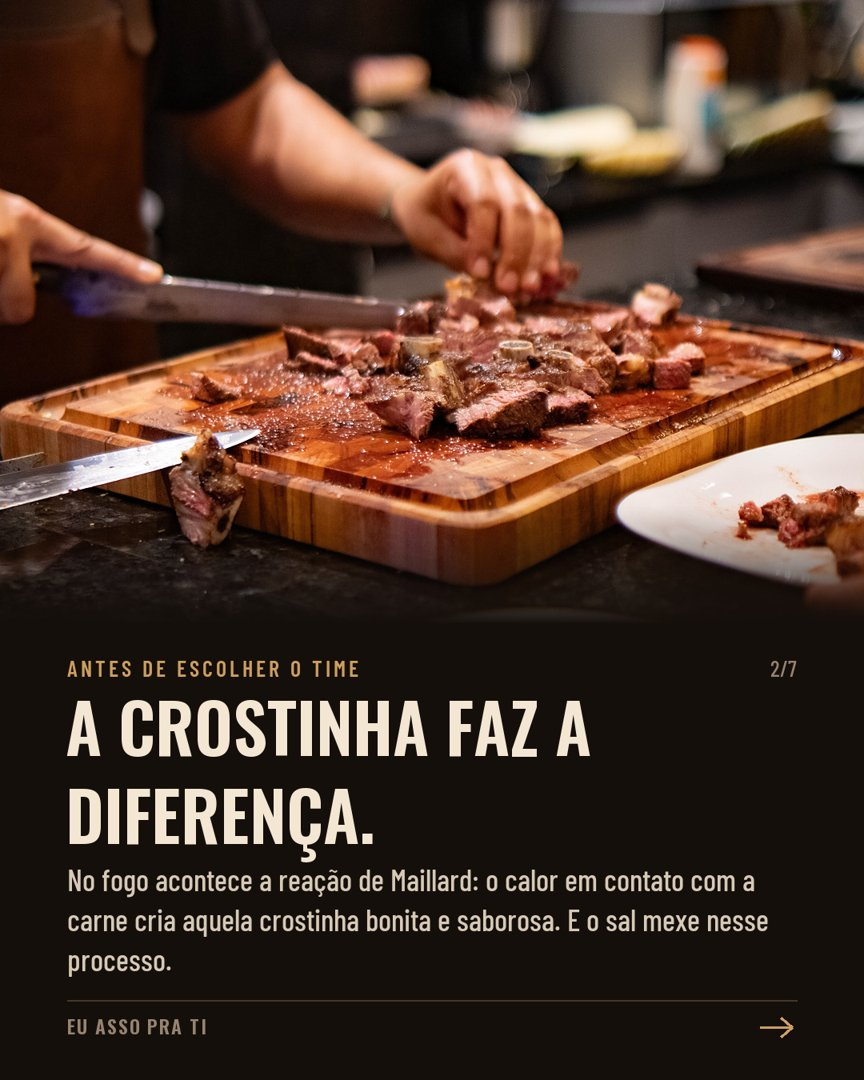
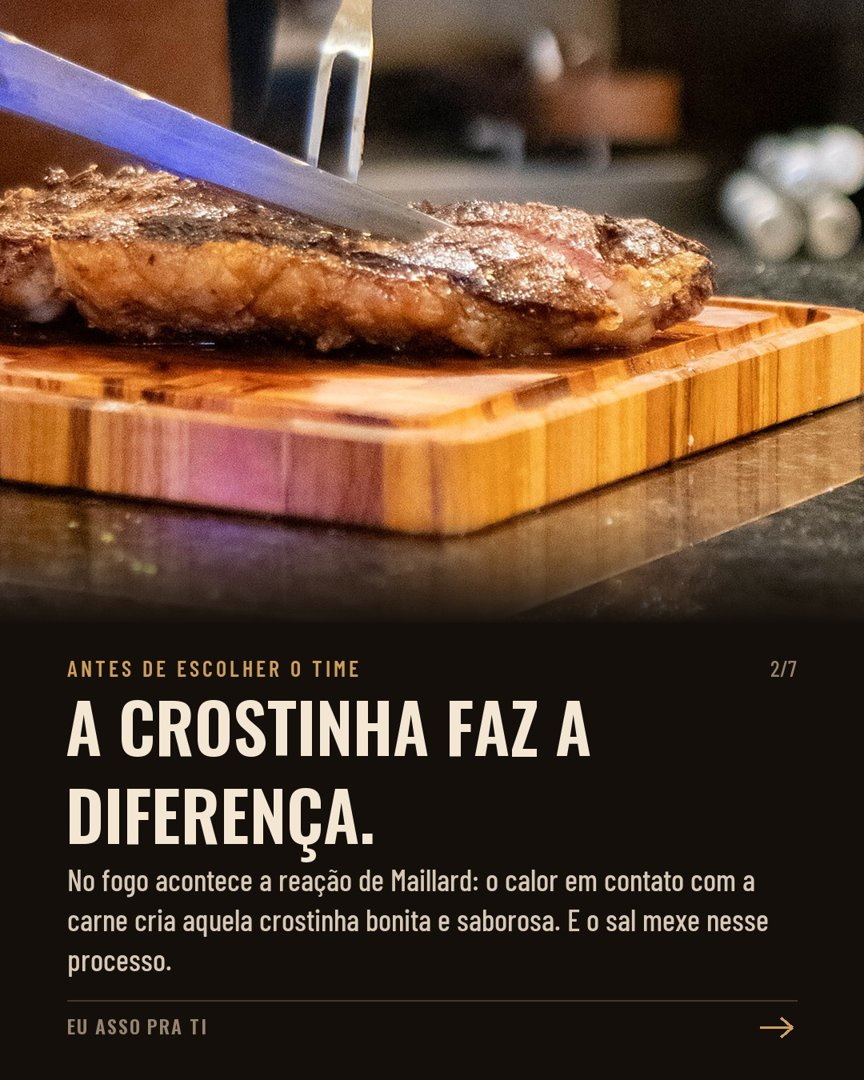
Post 07: crostinha e costelão nas fotos certas

diff --git a/semana/index.html b/semana/index.html
@@ -11,7 +11,7 @@
 --display:"Oswald","Arial Narrow",sans-serif;--label:"Barlow Condensed","Arial Narrow",sans-serif;--text:"Barlow",system-ui,sans-serif;color-scheme:dark}
 *{box-sizing:border-box}
 body{margin:0;background:var(--bg);color:var(--body);font:400 1.0625rem/1.6 var(--text)}
-.hero{position:relative;min-height:min(78vh,620px);display:grid;align-items:end;background:#000 url(img/p5-02.jpg?v=1792418128) center 40%/cover}
+.hero{position:relative;min-height:min(78vh,620px);display:grid;align-items:end;background:#000 url(img/p5-02.jpg?v=1792418336) center 40%/cover}
 .hero::after{content:"";position:absolute;inset:0;background:linear-gradient(180deg,rgba(21,15,11,.2) 0%,rgba(21,15,11,.55) 45%,var(--bg) 100%)}
 .hero .in{position:relative;z-index:1;max-width:760px;margin:0 auto;width:100%;padding:0 20px 36px}
 h1,h2{font-family:var(--display);font-weight:600;text-transform:uppercase;color:var(--fg);line-height:1.05;margin:0;text-wrap:balance}
@@ -81,13 +81,13 @@ footer{font:500 .9rem var(--label);color:var(--muted);letter-spacing:.06em;borde
   <h2>Post 5: gastronomia de fogo</h2>
   <p>Carrossel de 7 imagens: a carne de qualidade, cada uma no seu ponto, os legumes, o fatiado na hora, a sobremesa no fogo e o convite pra conversar.</p>
   <div class="car" aria-label="Imagens do post 5">
-    <img src="img/p5-01.jpg?v=1792418128" alt="Capa: Gastronomia de fogo" loading="lazy">
-    <img src="img/p5-02.jpg?v=1792418128" alt="Carne de qualidade" loading="lazy">
-    <img src="img/p5-03.jpg?v=1792418128" alt="Cada carne no seu ponto" loading="lazy">
-    <img src="img/p5-04.jpg?v=1792418128" alt="Os legumes também vão pro fogo" loading="lazy">
-    <img src="img/p5-05.jpg?v=1792418128" alt="Fatiado na hora" loading="lazy">
-    <img src="img/p5-06.jpg?v=1792418128" alt="E a sobremesa? No fogo, é claro" loading="lazy">
-    <img src="img/p5-07.jpg?v=1792418128" alt="Tem festa vindo aí?" loading="lazy">
+    <img src="img/p5-01.jpg?v=1792418336" alt="Capa: Gastronomia de fogo" loading="lazy">
+    <img src="img/p5-02.jpg?v=1792418336" alt="Carne de qualidade" loading="lazy">
+    <img src="img/p5-03.jpg?v=1792418336" alt="Cada carne no seu ponto" loading="lazy">
+    <img src="img/p5-04.jpg?v=1792418336" alt="Os legumes também vão pro fogo" loading="lazy">
+    <img src="img/p5-05.jpg?v=1792418336" alt="Fatiado na hora" loading="lazy">
+    <img src="img/p5-06.jpg?v=1792418336" alt="E a sobremesa? No fogo, é claro" loading="lazy">
+    <img src="img/p5-07.jpg?v=1792418336" alt="Tem festa vindo aí?" loading="lazy">
   </div>
   <p class="hint">Arrasta para o lado para ver as 7 imagens.</p>
   <details><summary>Ver a legenda</summary><div class="cap">Gastronomia de fogo 🔥 Eu cuido do fogo, tu aproveita a festa.
@@ -114,12 +114,12 @@ Me chama no WhatsApp pelo link da bio ou no (51) 99565-7817 e me conta como tu i
   <h2>Post 6: a tua festa, do teu jeito</h2>
   <p>Aqui não tem cardápio pronto: aniversário em casa, confraternização, casamento e formatura, cada um com o seu jeito. Fecha com "me conta a tua festa".</p>
   <div class="car" aria-label="Imagens do post 6">
-    <img src="img/p6-01.jpg?v=1792418128" alt="Capa: A tua festa, do teu jeito" loading="lazy">
-    <img src="img/p6-02.jpg?v=1792418128" alt="Pra família e os amigos" loading="lazy">
-    <img src="img/p6-03.jpg?v=1792418128" alt="Pra galera da empresa" loading="lazy">
-    <img src="img/p6-04.jpg?v=1792418128" alt="Pro dia que não volta" loading="lazy">
-    <img src="img/p6-05.jpg?v=1792418128" alt="Nada de cardápio pronto" loading="lazy">
-    <img src="img/p6-06.jpg?v=1792418128" alt="Me conta a tua festa" loading="lazy">
+    <img src="img/p6-01.jpg?v=1792418336" alt="Capa: A tua festa, do teu jeito" loading="lazy">
+    <img src="img/p6-02.jpg?v=1792418336" alt="Pra família e os amigos" loading="lazy">
+    <img src="img/p6-03.jpg?v=1792418336" alt="Pra galera da empresa" loading="lazy">
+    <img src="img/p6-04.jpg?v=1792418336" alt="Pro dia que não volta" loading="lazy">
+    <img src="img/p6-05.jpg?v=1792418336" alt="Nada de cardápio pronto" loading="lazy">
+    <img src="img/p6-06.jpg?v=1792418336" alt="Me conta a tua festa" loading="lazy">
   </div>
   <p class="hint">Arrasta para o lado para ver as 6 imagens.</p>
   <details><summary>Ver a legenda</summary><div class="cap">A tua festa, do teu jeito 🔥
@@ -144,7 +144,7 @@ Me chama no WhatsApp pelo link da bio ou no (51) 99565-7817 e me conta a tua fes
 <section>
   <div class="post-head"><p class="k" style="margin:0">Terça 13/10</p><span class="tag done">No ar</span></div>
   <h2>Post 4: o primeiro Reels</h2>
-  <video class="vid" src="video/p4-reels.mp4?v=1792418128" controls playsinline preload="metadata"></video>
+  <video class="vid" src="video/p4-reels.mp4?v=1792418336" controls playsinline preload="metadata"></video>
   <details><summary>Ver a legenda</summary><div class="cap">Quando tu chega, o fogo já tá pronto 🔥
 
 Eu chego bem antes pra preparar tudo: a carne de qualidade separada pra tua festa, o fogo no ponto certinho e tudo saindo da brasa direto pra tábua, servido quentinho pra galera.

diff --git a/calendario/index.html b/calendario/index.html
@@ -11,7 +11,7 @@
 --display:"Oswald","Arial Narrow",sans-serif;--label:"Barlow Condensed","Arial Narrow",sans-serif;--text:"Barlow",system-ui,sans-serif;color-scheme:dark}
 *{box-sizing:border-box}
 body{margin:0;background:var(--bg);color:var(--body);font:400 1.0625rem/1.6 var(--text)}
-.hero{position:relative;min-height:min(78vh,620px);display:grid;align-items:end;background:#000 url(img/p7-01.jpg?v=1792418128) center 45%/cover}
+.hero{position:relative;min-height:min(78vh,620px);display:grid;align-items:end;background:#000 url(img/p7-01.jpg?v=1792418336) center 45%/cover}
 .hero::after{content:"";position:absolute;inset:0;background:linear-gradient(180deg,rgba(21,15,11,.2) 0%,rgba(21,15,11,.55) 45%,var(--bg) 100%)}
 .hero .in{position:relative;z-index:1;max-width:760px;margin:0 auto;width:100%;padding:0 20px 36px}
 h1,h2{font-family:var(--display);font-weight:600;text-transform:uppercase;color:var(--fg);line-height:1.05;margin:0;text-wrap:balance}
@@ -88,13 +88,13 @@ footer{font:500 .9rem var(--label);color:var(--muted);letter-spacing:.06em;borde
   <h2>Post 7: sal antes ou sal depois?</h2>
   <p>Refeito com a tua explicação e com as fotos tratadas pra combinar com a pegada premium: a capa com o teu sal grosso, a reação de Maillard, quando salgar antes, quando salgar depois, como tu faz e por que não salgar o corte nobre antes. Fecha com o teu time: depende do corte.</p>
   <div class="car" aria-label="Imagens do post 7">
-    <img src="img/p7-01.jpg?v=1792418128" alt="Capa: Sal antes ou sal depois?" loading="lazy">
-    <img src="img/p7-02.jpg?v=1792418128" alt="A crostinha faz a diferença" loading="lazy">
-    <img src="img/p7-03.jpg?v=1792418128" alt="Time sal antes" loading="lazy">
-    <img src="img/p7-04.jpg?v=1792418128" alt="Time sal depois" loading="lazy">
-    <img src="img/p7-05.jpg?v=1792418128" alt="Descansa, fatia, salga" loading="lazy">
-    <img src="img/p7-06.jpg?v=1792418128" alt="Sal cedo tira o sabor" loading="lazy">
-    <img src="img/p7-07.jpg?v=1792418128" alt="E eu? Depende do corte" loading="lazy">
+    <img src="img/p7-01.jpg?v=1792418336" alt="Capa: Sal antes ou sal depois?" loading="lazy">
+    <img src="img/p7-02.jpg?v=1792418336" alt="A crostinha faz a diferença" loading="lazy">
+    <img src="img/p7-03.jpg?v=1792418336" alt="Time sal antes" loading="lazy">
+    <img src="img/p7-04.jpg?v=1792418336" alt="Time sal depois" loading="lazy">
+    <img src="img/p7-05.jpg?v=1792418336" alt="Descansa, fatia, salga" loading="lazy">
+    <img src="img/p7-06.jpg?v=1792418336" alt="Sal cedo tira o sabor" loading="lazy">
+    <img src="img/p7-07.jpg?v=1792418336" alt="E eu? Depende do corte" loading="lazy">
   </div>
   <p class="hint">Arrasta para o lado para ver as 7 imagens.</p>
   <details><summary>Ver a legenda</summary><div class="cap">Sal antes ou sal depois? 🧂🔥
@@ -144,11 +144,11 @@ Agora me conta aqui nos comentários: tu é de qual time? 👇
   <h2>Post 9: antes da tua festa começar</h2>
   <p>O bastidor premium: os cortes separados pro cardápio, o cronograma, o serviço na mesa. Mostra o cuidado que o cliente não vê.</p>
   <div class="car" aria-label="Imagens do post 9">
-    <img src="img/p9-01.jpg?v=1792418128" alt="Capa: Antes da tua festa começar" loading="lazy">
-    <img src="img/p9-02.jpg?v=1792418128" alt="Cada corte separado pra ti" loading="lazy">
-    <img src="img/p9-03.jpg?v=1792418128" alt="O cronograma manda" loading="lazy">
-    <img src="img/p9-04.jpg?v=1792418128" alt="Servido pra galera" loading="lazy">
-    <img src="img/p9-05.jpg?v=1792418128" alt="Me conta a tua" loading="lazy">
+    <img src="img/p9-01.jpg?v=1792418336" alt="Capa: Antes da tua festa começar" loading="lazy">
+    <img src="img/p9-02.jpg?v=1792418336" alt="Cada corte separado pra ti" loading="lazy">
+    <img src="img/p9-03.jpg?v=1792418336" alt="O cronograma manda" loading="lazy">
+    <img src="img/p9-04.jpg?v=1792418336" alt="Servido pra galera" loading="lazy">
+    <img src="img/p9-05.jpg?v=1792418336" alt="Me conta a tua" loading="lazy">
   </div>
   <p class="hint">Arrasta para o lado para ver as 5 imagens.</p>
   <details><summary>Ver a legenda</summary><div class="cap">Antes da tua festa começar, já tem muita coisa acontecendo 🔥
